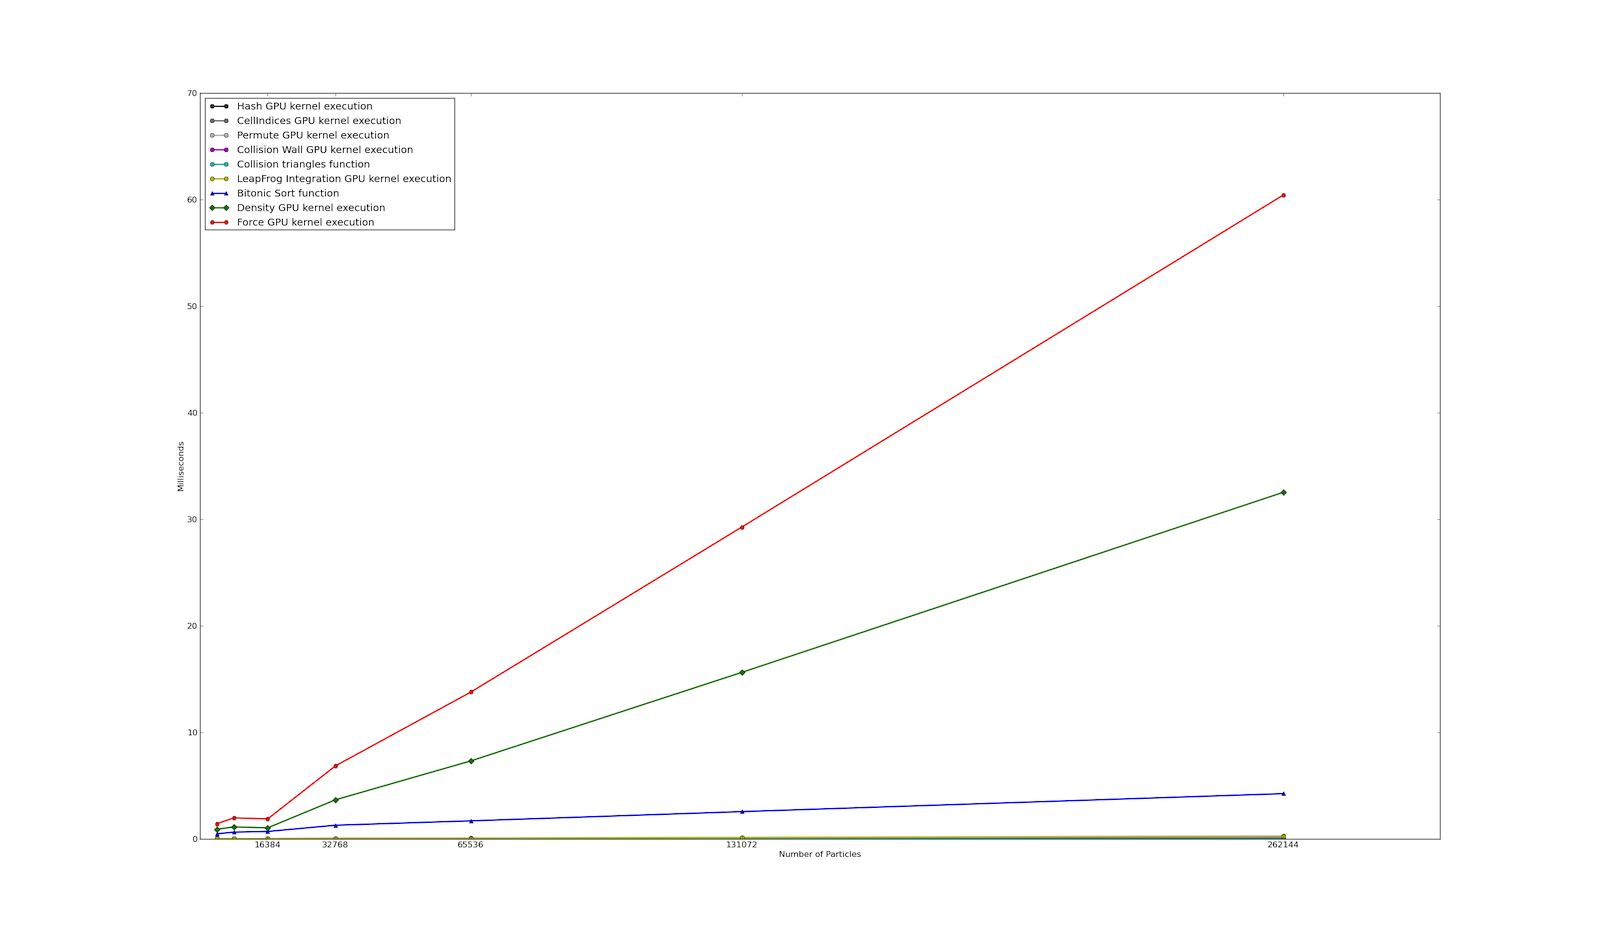
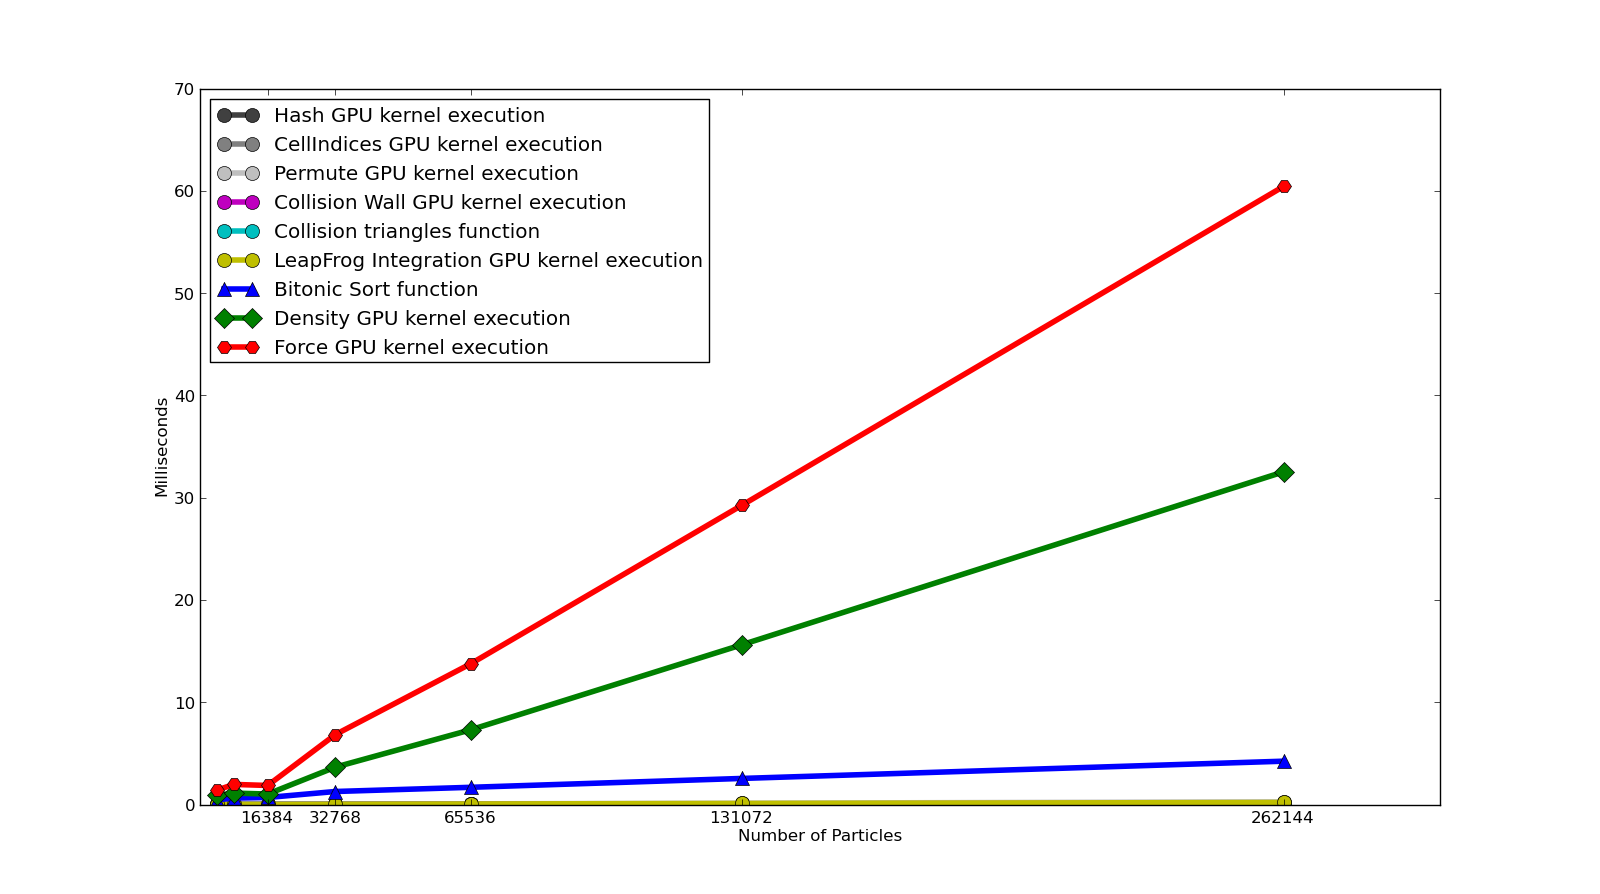
redid timing graphs

diff --git a/fsutemplate/timings/graph.py b/fsutemplate/timings/graph.py
@@ -38,9 +38,9 @@ for ms in ati_mill_timings["Update loop"]:
     ati_mill_rtps_fps += [ms2fps(ms)]
 
 
-fps = False
-nv_kernel = True
-nv_ati_neighbors = False
+fps = False 
+nv_kernel = False 
+nv_ati_neighbors = True 
 nv_neighbors = False
 
 
@@ -50,12 +50,15 @@ if fps:
     fps_ticks = [30, 60, 100, 200, 400, 1000]
     krog_fps = [1424, 1084, 837, 429, 245, 140, 74]
     pylab.figure(0)
-    pylab.plot(nv_nums, krog_fps, 'o-', label='SimpleSim on GTX480 max_num = num')
-    pylab.plot(nv_nums, nv_rtps_fps, 'o-', label='RTPS on GTX480 max_num = num')
-    pylab.plot(nv_nums, ati_rtps_fps, 'o-', label='RTPS on FireProV7800 max_num = num')
+    pylab.plot(nv_nums, krog_fps, 'o-', linewidth=2, markersize=10, label='SimpleSim on GTX480 max_num = num')
+    pylab.plot(nv_nums, nv_rtps_fps, 'o-', linewidth=2, markersize=10, label='RTPS on GTX480 max_num = num')
+    pylab.plot(nv_nums, ati_rtps_fps, 'o-', linewidth=2, markersize=10, label='RTPS on FireProV7800 max_num = num')
 
     pylab.axhline(30, linestyle='--', alpha=.5, label='30fps')
     pylab.axhline(60, linestyle='-.', alpha=.5, label='60fps')
+
+    
+
     pylab.legend(loc='upper right')
     pylab.xlabel('Number of Particles')
     pylab.ylabel('Frames Per Second')
@@ -64,9 +67,9 @@ if fps:
 
 
     pylab.figure(1)
-    pylab.plot(nv_nums, krog_fps, 'o-', label='SimpleSim on GTX480 max_num = num')
-    pylab.plot(nv_nums, nv_mill_rtps_fps, 'o-', label='RTPS on GTX480 max_num = 1million')
-    pylab.plot(nv_nums, ati_mill_rtps_fps, 'o-', label='RTPS on FireProV7800 max_num = 1million')
+    pylab.plot(nv_nums, krog_fps, 'o-', linewidth=4, markersize=10, label='SimpleSim on GTX480 max_num = num')
+    pylab.plot(nv_nums, nv_mill_rtps_fps, 'o-', linewidth=4, markersize=10, label='RTPS on GTX480 max_num = 1million')
+    pylab.plot(nv_nums, ati_mill_rtps_fps, 'o-', linewidth=4, markersize=10, label='RTPS on FireProV7800 max_num = 1million')
 
     pylab.axhline(30, linestyle='--', alpha=.5, label='30fps')
     pylab.axhline(60, linestyle='-.', alpha=.5, label='60fps')
@@ -128,7 +131,7 @@ if nv_kernel:
                 bot[j] += nv_timings[key][j]
                 
         """
-        pylab.plot(nv_nums, nv_timings[key], 'o-', linewidth=2.0, color=colors[i], marker=markers[i], label=key)
+        pylab.plot(nv_nums, nv_timings[key], 'o-', linewidth=4.0, markersize=10, color=colors[i], marker=markers[i], label=key)
 
 
     pylab.legend(loc='upper left')
@@ -189,9 +192,9 @@ if nv_ati_neighbors:
 
 
 
-    pylab.legend(loc='upper left')
-    pylab.xlabel('Number of Particles')
-    pylab.ylabel('Milliseconds')
+    #pylab.legend(loc='upper left')
+    #pylab.xlabel('Number of Particles')
+    #pylab.ylabel('Milliseconds')
 
 
 

diff --git a/fsutemplate/chapter_results.tex b/fsutemplate/chapter_results.tex
@@ -35,9 +35,9 @@ milliseconds a lower number is preferred.
 
 \begin{figure}[!htc]
  		\centering
-        \subfloat[maximum number of particles equal to number of particles]{\label{fig:fps_num}\includegraphics[scale=0.5]{figures/maxnum_eq_num_fps.png}}
+        \subfloat[maximum number of particles equal to number of particles]{\label{fig:fps_num}\includegraphics[scale=0.4]{figures/maxnum_eq_num_fps.png}}
         \\
-        \subfloat[maximum number of particles equal to 1 million]{\label{fig:fps_1mill}\includegraphics[scale=0.5]{figures/maxnum_eq_1mill_fps.png}}
+        \subfloat[maximum number of particles equal to 1 million]{\label{fig:fps_1mill}\includegraphics[scale=0.4]{figures/maxnum_eq_1mill_fps.png}}
         \caption{Frame Rates}
         \label{fig:fps}
 \end{figure}
@@ -65,7 +65,7 @@ contributes a non-trivial amount of time to the computation.
 
 \begin{figure}[!htc]
  		\centering
-		\includegraphics[scale=0.35]{figures/nv_kernel_num.png}
+		\includegraphics[scale=0.4]{figures/nv_kernel_num.png}
         \caption{ GPU timings for each kernel }
         \label{fig:kernel_time}
 \end{figure}
@@ -83,9 +83,9 @@ kernels on each video card using 262144 particles. The proportions are similar
 for each card, with the sort contributing more on the AMD hardware.
 
 \begin{figure}[!htc]
- 		\centering
-        \subfloat[NVIDIA]{\label{fig:nv_pie}\includegraphics[scale=0.2]{figures/nv_pie.png}}
-        \subfloat[AMD]{\label{fig:ati_pie}\includegraphics[scale=0.2]{figures/ati_pie.png}}
+ 		%\centering
+        \subfloat[NVIDIA]{\label{fig:nv_pie}\includegraphics[scale=0.4]{figures/nv_pie.png}}
+        \\ \subfloat[AMD]{\label{fig:ati_pie}\includegraphics[scale=0.4]{figures/ati_pie.png}}
         \caption{ Proportion of GPU timings for the most expensive kernels on each card }
         \label{fig:pies}
 \end{figure}
@@ -153,6 +153,8 @@ integrating the RTPS library with Blender. As the code improves and the
 integration becomes tighter it is expected that more developers will be willing
 and able to help.
 
+\pagebreak
+\clearpage
 
 \section{Screen Shots}
 

diff --git a/fsutemplate/mythesis.tex b/fsutemplate/mythesis.tex
@@ -111,6 +111,7 @@ The goal of this project is blah blah blah.
 \bibliography{mythesis}
 
 \begin{biosketch}
+    Ian 'enjalot' Johnson was born on the 6th of October, 1985 in Leiden, Netherlands. Ian grew up Ithica, New York and Tallahassee, Florida.
 \end{biosketch}
 
 \end{document}
